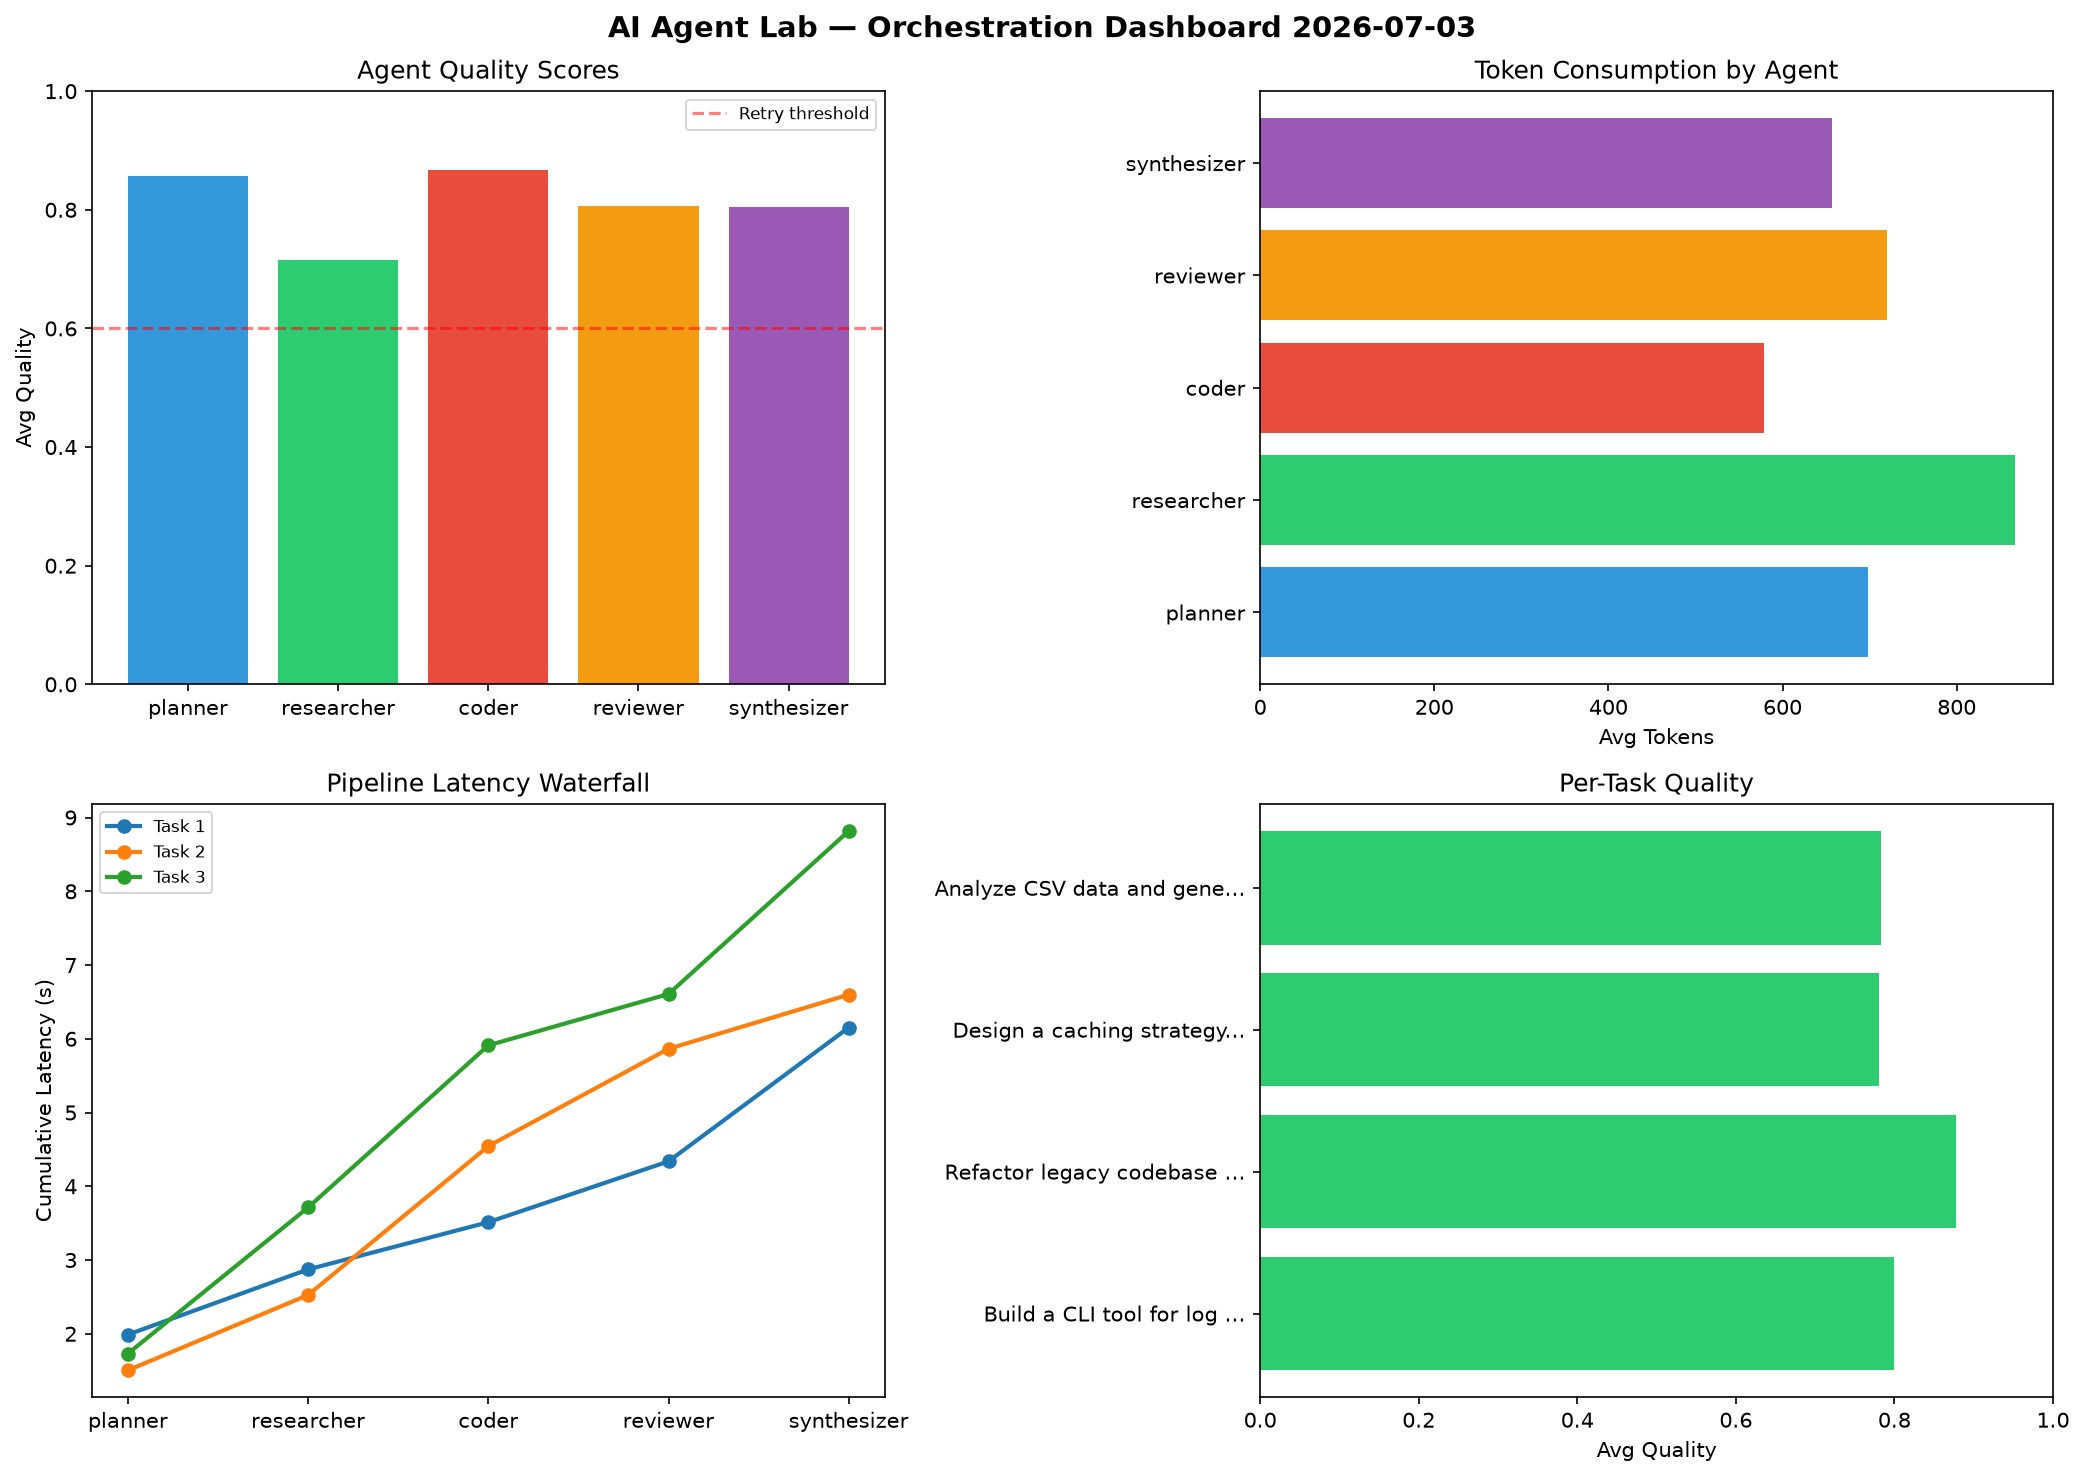
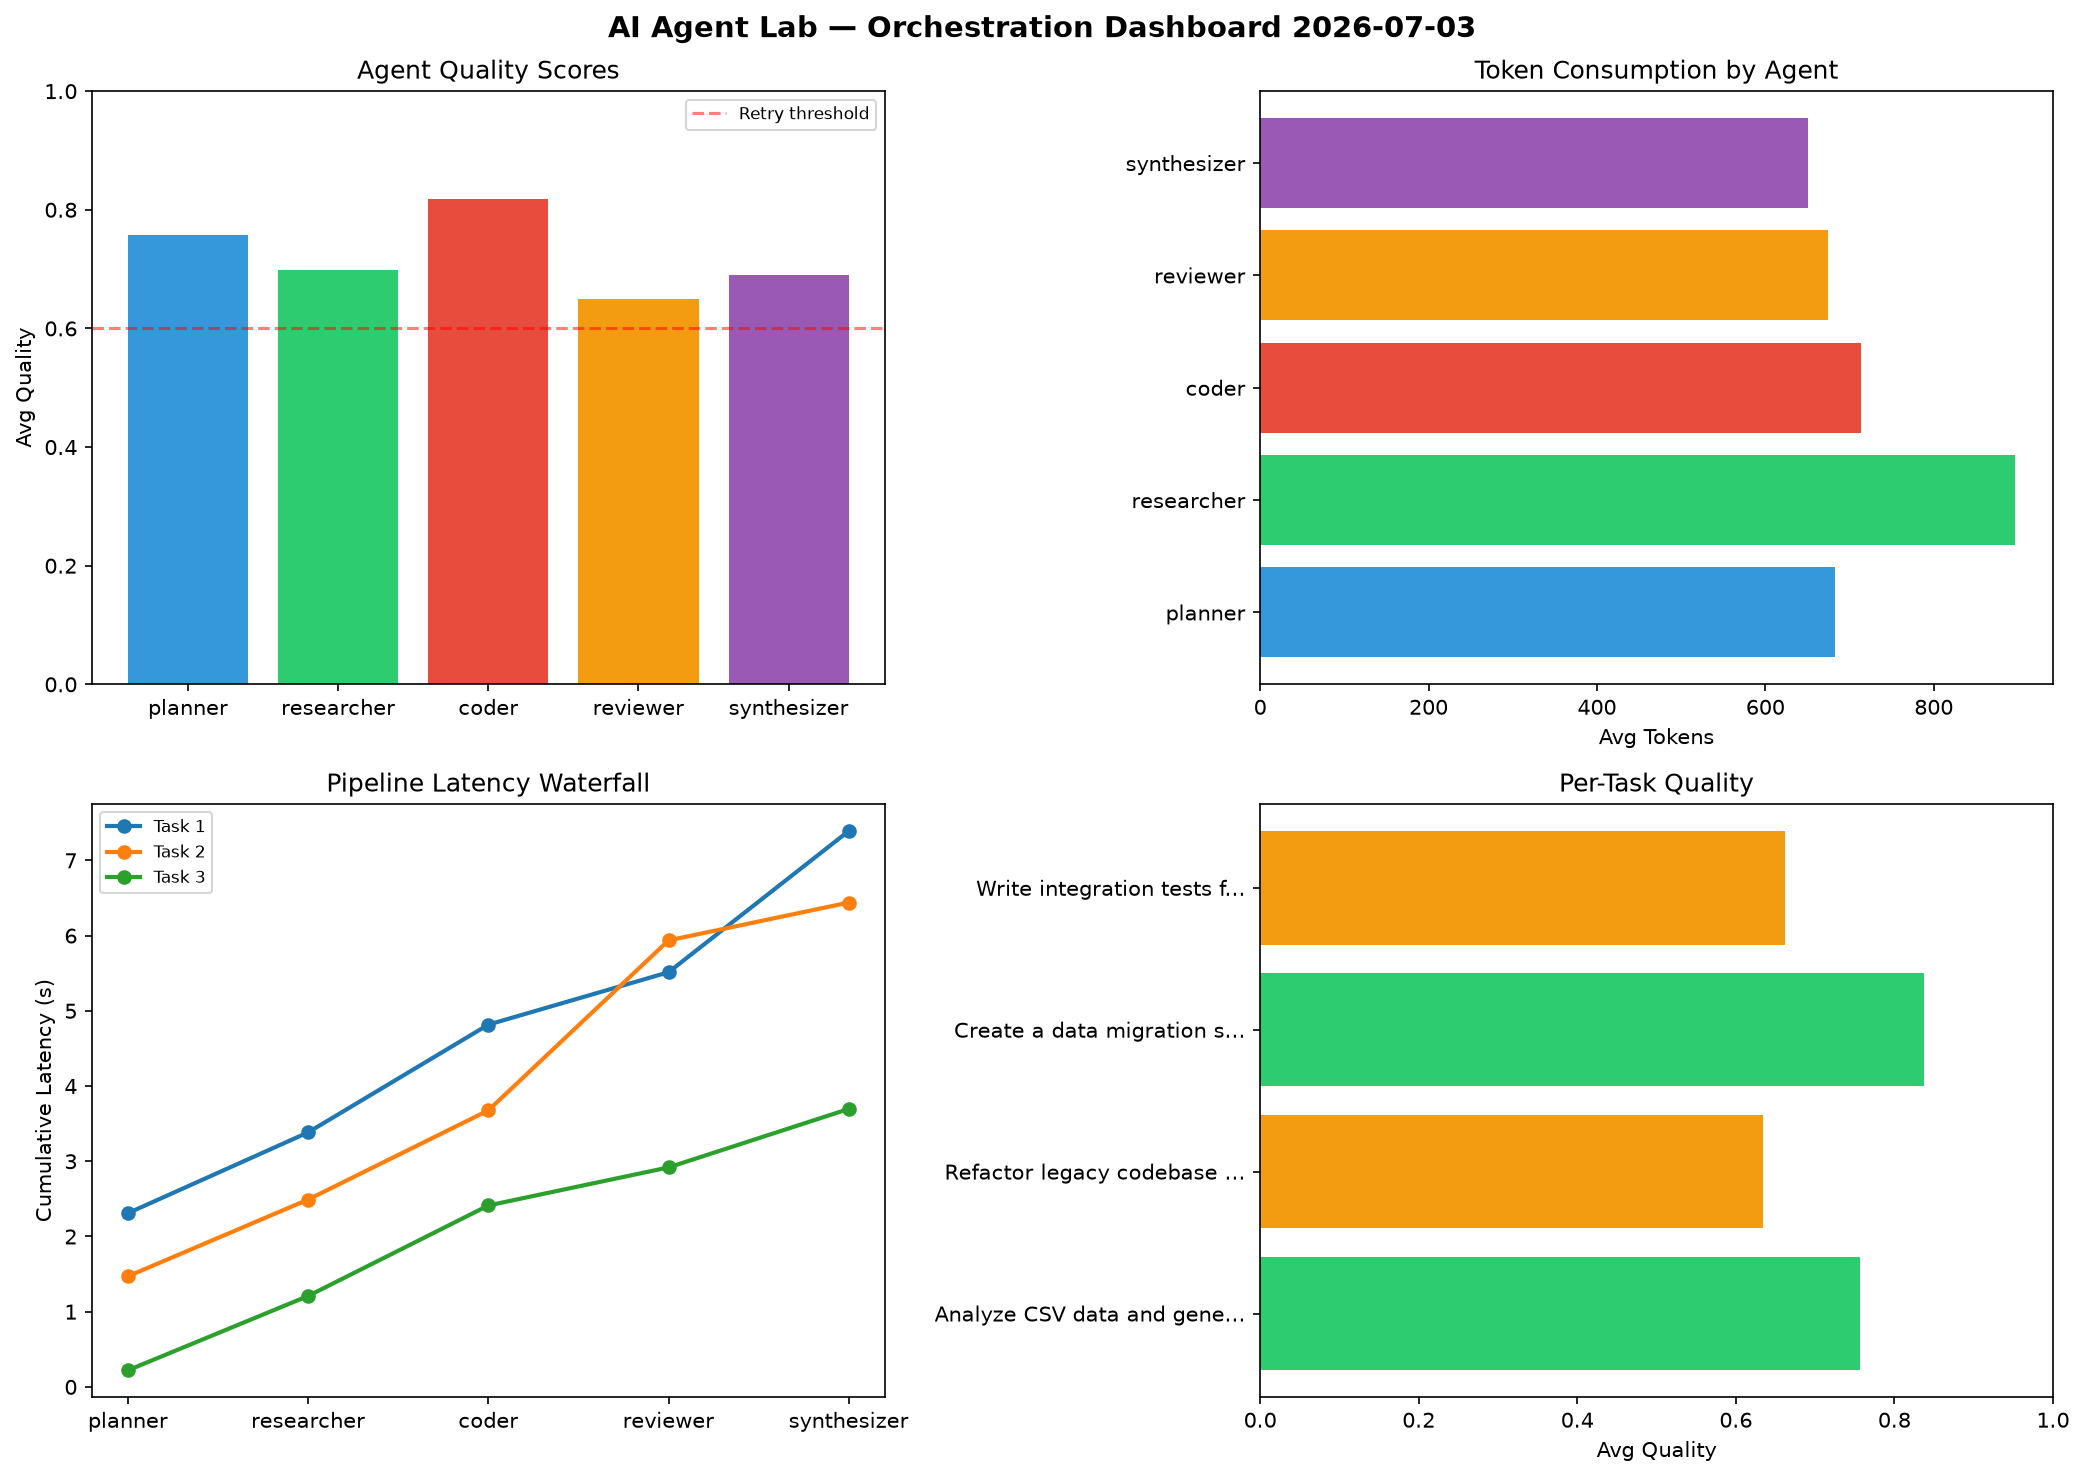
ai-agent-lab: orchestration run 2026-07-03T16:01

diff --git a/logs/2026-07-03.md b/logs/2026-07-03.md
@@ -1,6 +1,6 @@
 # AI Agent Lab — Orchestration Report 2026-07-03
 
-**Run ID:** `cb5bfc4fff` | **Tasks:** 4 | **Avg Quality:** 0.81
+**Run ID:** `1666a74355` | **Tasks:** 4 | **Avg Quality:** 0.722
 
 ![Dashboard](2026-07-03_dashboard.png)
 
@@ -8,52 +8,52 @@
 
 | Metric | Value |
 |--------|-------|
-| avg_latency | 7.023 |
-| total_tokens | 14080 |
-| avg_quality | 0.81 |
+| avg_latency | 5.391 |
+| total_tokens | 14470 |
+| avg_quality | 0.722 |
 
 ## Delta vs Yesterday
 
 | Metric | Today | Yesterday | Change |
 |--------|-------|-----------|--------|
-| avg_latency | 7.023 | 6.071 | 📈 15.7% |
-| total_tokens | 14080 | 14875 | 📉 -5.3% |
-| avg_quality | 0.81 | 0.731 | 📈 10.8% |
+| avg_latency | 5.391 | 6.071 | 📉 -11.2% |
+| total_tokens | 14470 | 14875 | 📉 -2.7% |
+| avg_quality | 0.722 | 0.731 | 📉 -1.2% |
 
 ## Pipeline Results
-
-### Build a CLI tool for log analysis
-| Agent | Quality | Latency | Tokens | Status |
-|-------|---------|---------|--------|--------|
-| planner | 0.913 | 1.989s | 564 | success |
-| researcher | 0.727 | 0.884s | 976 | success |
-| coder | 0.835 | 0.64s | 814 | success |
-| reviewer | 0.761 | 0.825s | 710 | success |
-| synthesizer | 0.762 | 1.814s | 464 | success |
-
-### Refactor legacy codebase to use dependency injection
-| Agent | Quality | Latency | Tokens | Status |
-|-------|---------|---------|--------|--------|
-| planner | 0.821 | 1.505s | 929 | success |
-| researcher | 0.755 | 1.021s | 850 | success |
-| coder | 0.951 | 2.018s | 330 | success |
-| reviewer | 0.879 | 1.32s | 522 | success |
-| synthesizer | 0.982 | 0.734s | 606 | success |
-
-### Design a caching strategy for high-traffic endpoints
-| Agent | Quality | Latency | Tokens | Status |
-|-------|---------|---------|--------|--------|
-| planner | 0.97 | 1.732s | 524 | success |
-| researcher | 0.76 | 1.981s | 681 | success |
-| coder | 0.741 | 2.198s | 868 | success |
-| reviewer | 0.92 | 0.696s | 739 | success |
-| synthesizer | 0.508 | 2.21s | 978 | needs_retry |
 
 ### Analyze CSV data and generate statistical summary
 | Agent | Quality | Latency | Tokens | Status |
 |-------|---------|---------|--------|--------|
-| planner | 0.721 | 2.093s | 776 | success |
-| researcher | 0.617 | 1.671s | 962 | success |
-| coder | 0.942 | 0.689s | 301 | success |
-| reviewer | 0.667 | 0.811s | 909 | success |
-| synthesizer | 0.966 | 1.26s | 577 | success |
+| planner | 0.736 | 2.31s | 571 | success |
+| researcher | 0.87 | 1.074s | 900 | success |
+| coder | 0.91 | 1.432s | 621 | success |
+| reviewer | 0.703 | 0.697s | 488 | success |
+| synthesizer | 0.563 | 1.877s | 762 | needs_retry |
+
+### Refactor legacy codebase to use dependency injection
+| Agent | Quality | Latency | Tokens | Status |
+|-------|---------|---------|--------|--------|
+| planner | 0.66 | 1.471s | 748 | success |
+| researcher | 0.504 | 1.02s | 1218 | needs_retry |
+| coder | 0.772 | 1.185s | 443 | success |
+| reviewer | 0.572 | 2.26s | 963 | needs_retry |
+| synthesizer | 0.661 | 0.503s | 781 | success |
+
+### Create a data migration script for schema v2
+| Agent | Quality | Latency | Tokens | Status |
+|-------|---------|---------|--------|--------|
+| planner | 0.811 | 0.221s | 848 | success |
+| researcher | 0.896 | 0.988s | 886 | success |
+| coder | 0.953 | 1.203s | 1178 | success |
+| reviewer | 0.584 | 0.506s | 711 | needs_retry |
+| synthesizer | 0.941 | 0.777s | 643 | success |
+
+### Write integration tests for payment processing module
+| Agent | Quality | Latency | Tokens | Status |
+|-------|---------|---------|--------|--------|
+| planner | 0.822 | 1.142s | 563 | success |
+| researcher | 0.523 | 0.28s | 583 | needs_retry |
+| coder | 0.636 | 0.343s | 612 | success |
+| reviewer | 0.738 | 0.427s | 534 | success |
+| synthesizer | 0.593 | 1.846s | 417 | needs_retry |
